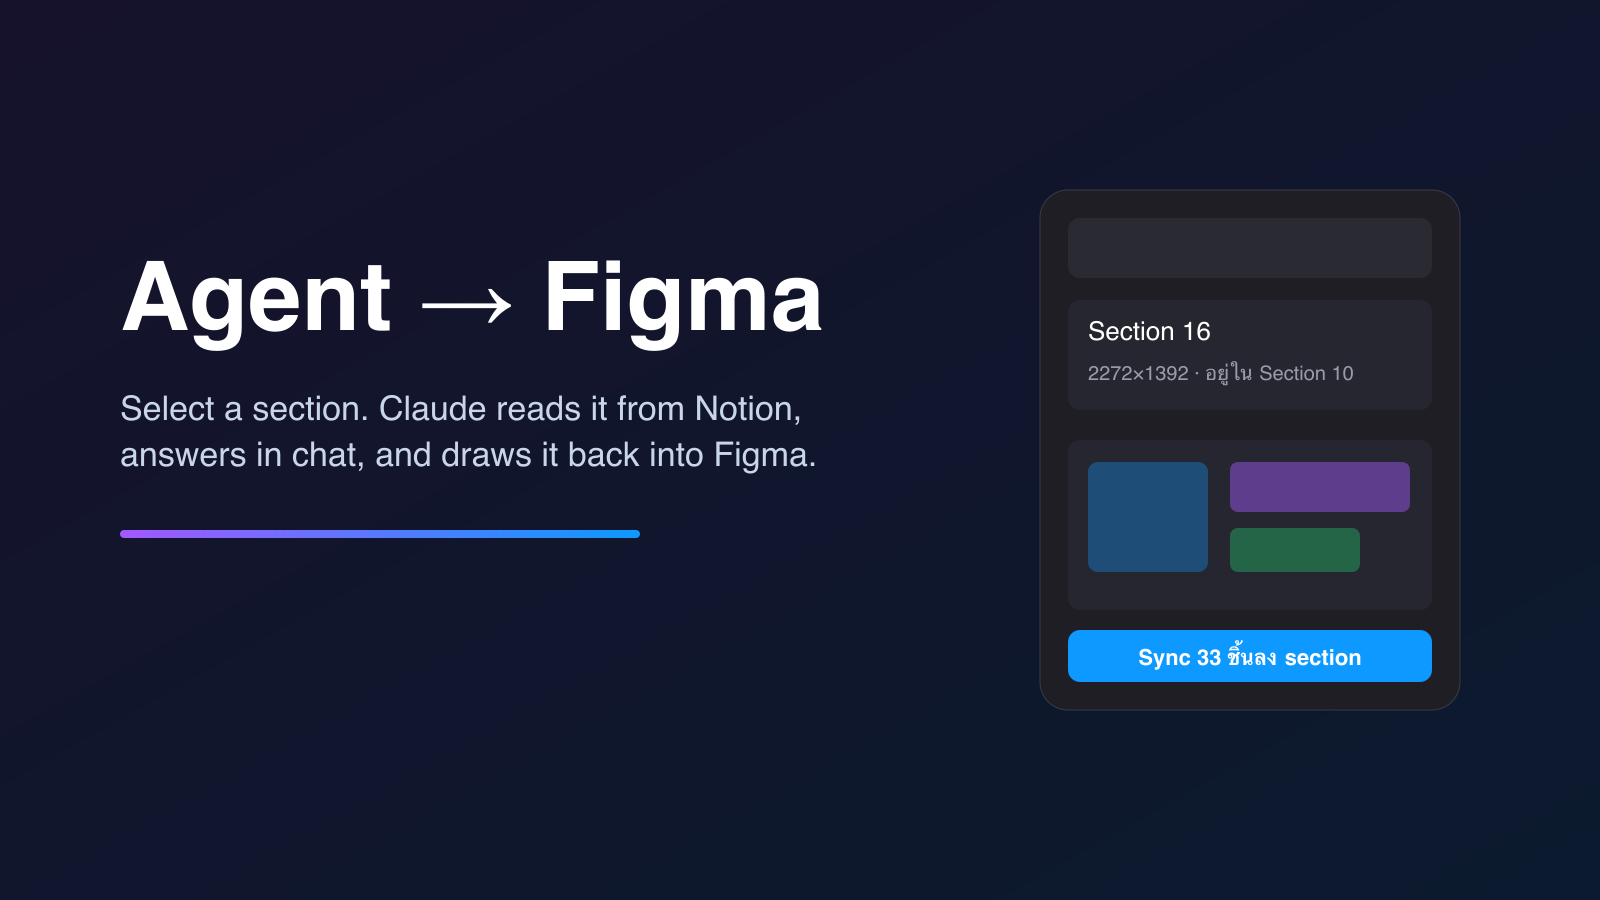
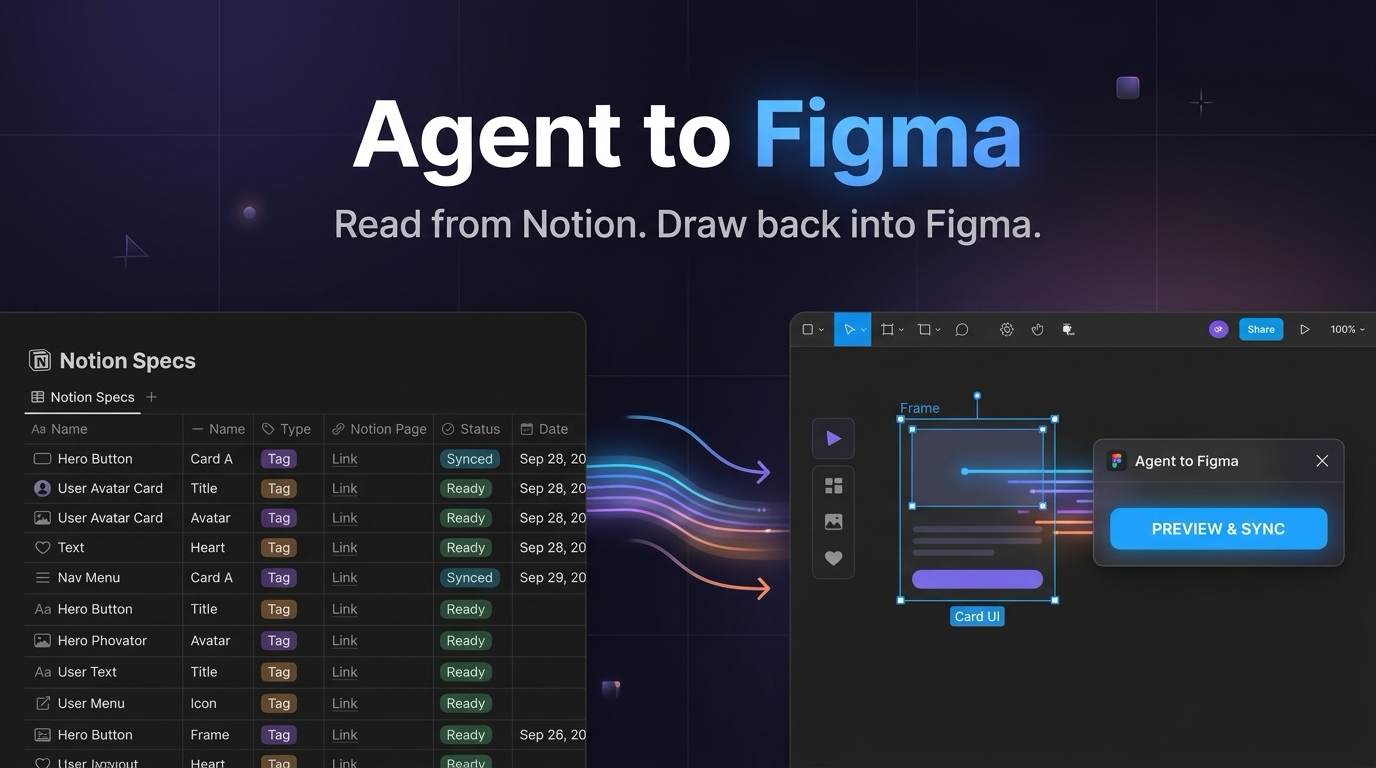
docs: align README with figma-to-notion and update cover thumbnail

diff --git a/README.md b/README.md
@@ -20,48 +20,63 @@
 
 ## 📖 Overview
 
-**Agent to Figma** is the reverse of [figma-to-notion](https://github.com/Tapakorn086/figma-to-notion). You select a Section or Frame in Figma, and Claude:
+**Agent to Figma** is the companion & reverse workflow of [figma-to-notion](https://github.com/Tapakorn086/figma-to-notion). Together, they form a complete two-way loop between your design canvas and your documentation:
 
-1. Reads its structure and image through a local bridge
-2. Finds the matching row in your Notion database by Figma key
-3. Answers in chat, or writes drawing instructions (ops)
-4. Previews them in the plugin. **You press Sync** to draw into the selected Section.
+- **[figma-to-notion](https://github.com/Tapakorn086/figma-to-notion)** — **Figma → Notion:** Export layers, frames, tables, and specs from Figma into your Notion database.
+- **Agent to Figma (this repo)** — **Notion → Figma:** Let Claude read your selected Figma Section, look up its matching row in Notion, and draw the answer or new components back into Figma.
 
-Claude never draws without your Sync. Every drawn piece stays inside the Section, and Sync can be undone.
+Claude never draws without your **Sync**. Every drawn piece stays inside the selected Section, and every Sync can be undone.
+
+Perfect for:
+- 🤖 **Design-to-Agent Context:** Send a Section's outline and PNG directly to Claude so it understands your layout and Notion specs.
+- ✏ **Agent-to-Canvas Drawing:** Let Claude propose frames, cards, shapes, and text back into Figma.
+- 🛡 **Safe, Previewed Sync:** Inspect every op and bounding-box check before anything is drawn on your canvas.
 
 ---
 
 ## ✨ Features
 
-- **Read a section:** outline (Markdown or JSON) and a PNG of the section, ready to paste or sent over the bridge
-- **Draw into a section:** `frame`, `rect`, `ellipse`, `text`, `line`, with auto layout on frames
-- **Preview before drawing:** every op is checked against the section size, and mistakes are listed before Sync
-- **Undo:** remove the last Sync, or clear everything the agent drew
-- **Parent context:** shows which Sections contain the selected one, and their Figma keys for matching Notion
+- **Read a Section:** Exports the selected Section's outline (Markdown or JSON) and a PNG render, ready to paste or send over the local bridge.
+- **Draw into a Section:** Supports `frame`, `rect`, `ellipse`, `text`, and `line`, with auto layout on frames.
+- **Preview Before Drawing:** Every op is checked against the Section size, and any mistakes are listed before you press **Sync**.
+- **Undo & Clear:** Remove the last Sync, or clear everything the agent drew in one click.
+- **Parent Context:** Shows which parent Sections contain the selected one, along with their Figma keys for matching Notion rows.
 
 ---
 
-## 🚀 Setup
+## 🚀 Installation & Local Development
 
-### 1. Install the plugin
+### 1. Install the Plugin
 
-Figma desktop → **Plugins → Development → Import plugin from manifest…** → select `manifest.json`
+1. Clone this repository:
+   ```bash
+   git clone https://github.com/Tapakorn086/agent-to-figma.git
+   cd agent-to-figma
+   ```
+2. Open **Figma Desktop**.
+3. Navigate to: `Plugins` > `Development` > `Import plugin from manifest...`
+4. Select the [`manifest.json`](manifest.json) file in this repository.
+5. The plugin is now ready under `Plugins` > `Development` > **Agent to Figma**.
 
-### 2. Start the bridge
+### 2. Start the Bridge
 
 ```bash
 cd ~/Documents/agent-to-figma && node bridge.js
 ```
 
-The bridge listens on `http://localhost:4848` (127.0.0.1 only).
+The bridge listens on `http://localhost:4848` (`127.0.0.1` only).
 
-### 3. Use it
+---
 
-1. Select one Section or Frame on the canvas
-2. Open **Agent to Figma** and check that the status shows **Claude ออนไลน์** (green)
-3. In chat, tell Claude what to read or draw, for example: *"ช่วยอ่าน section ที่ฉันเลือกใน Figma แล้วไปดู row ของมันใน Notion จากนั้นตอบฉันในแชตนี้"*
+## 💡 How to Use
 
-The plugin has a "วิธีใช้" card with the bridge command and this prompt, each with a copy button.
+1. Select one **Section** or **Frame** on your Figma canvas.
+2. Run the **Agent to Figma** plugin and check that the status shows **Claude ออนไลน์** (green).
+3. In chat, tell Claude what to read or draw, for example:
+   *"ช่วยอ่าน section ที่ฉันเลือกใน Figma แล้วไปดู row ของมันใน Notion จากนั้นตอบฉันในแชตนี้"*
+4. Review the previewed ops in the plugin, then click **Sync** to draw them into the selected Section.
+
+> 💡 **Tip:** The plugin includes a **"วิธีใช้"** card with the bridge command and sample prompt, each with a one-click copy button.
 
 ---
 
@@ -120,6 +135,13 @@ Tests cover the pure logic in `/* domain:start */` … `/* domain:end */` region
 
 ---
 
+## 🔒 Security & Privacy
+
+- **Local-Only Bridge:** `bridge.js` binds strictly to `127.0.0.1:4848`—no external server or third-party backend is involved.
+- **Explicit Sync Gate:** Claude can only queue ops for preview; nothing is drawn on your canvas until you click **Sync**.
+
+---
+
 ## 📄 License
 
-MIT. See [LICENSE](LICENSE).
+This project is licensed under the [MIT License](LICENSE).
